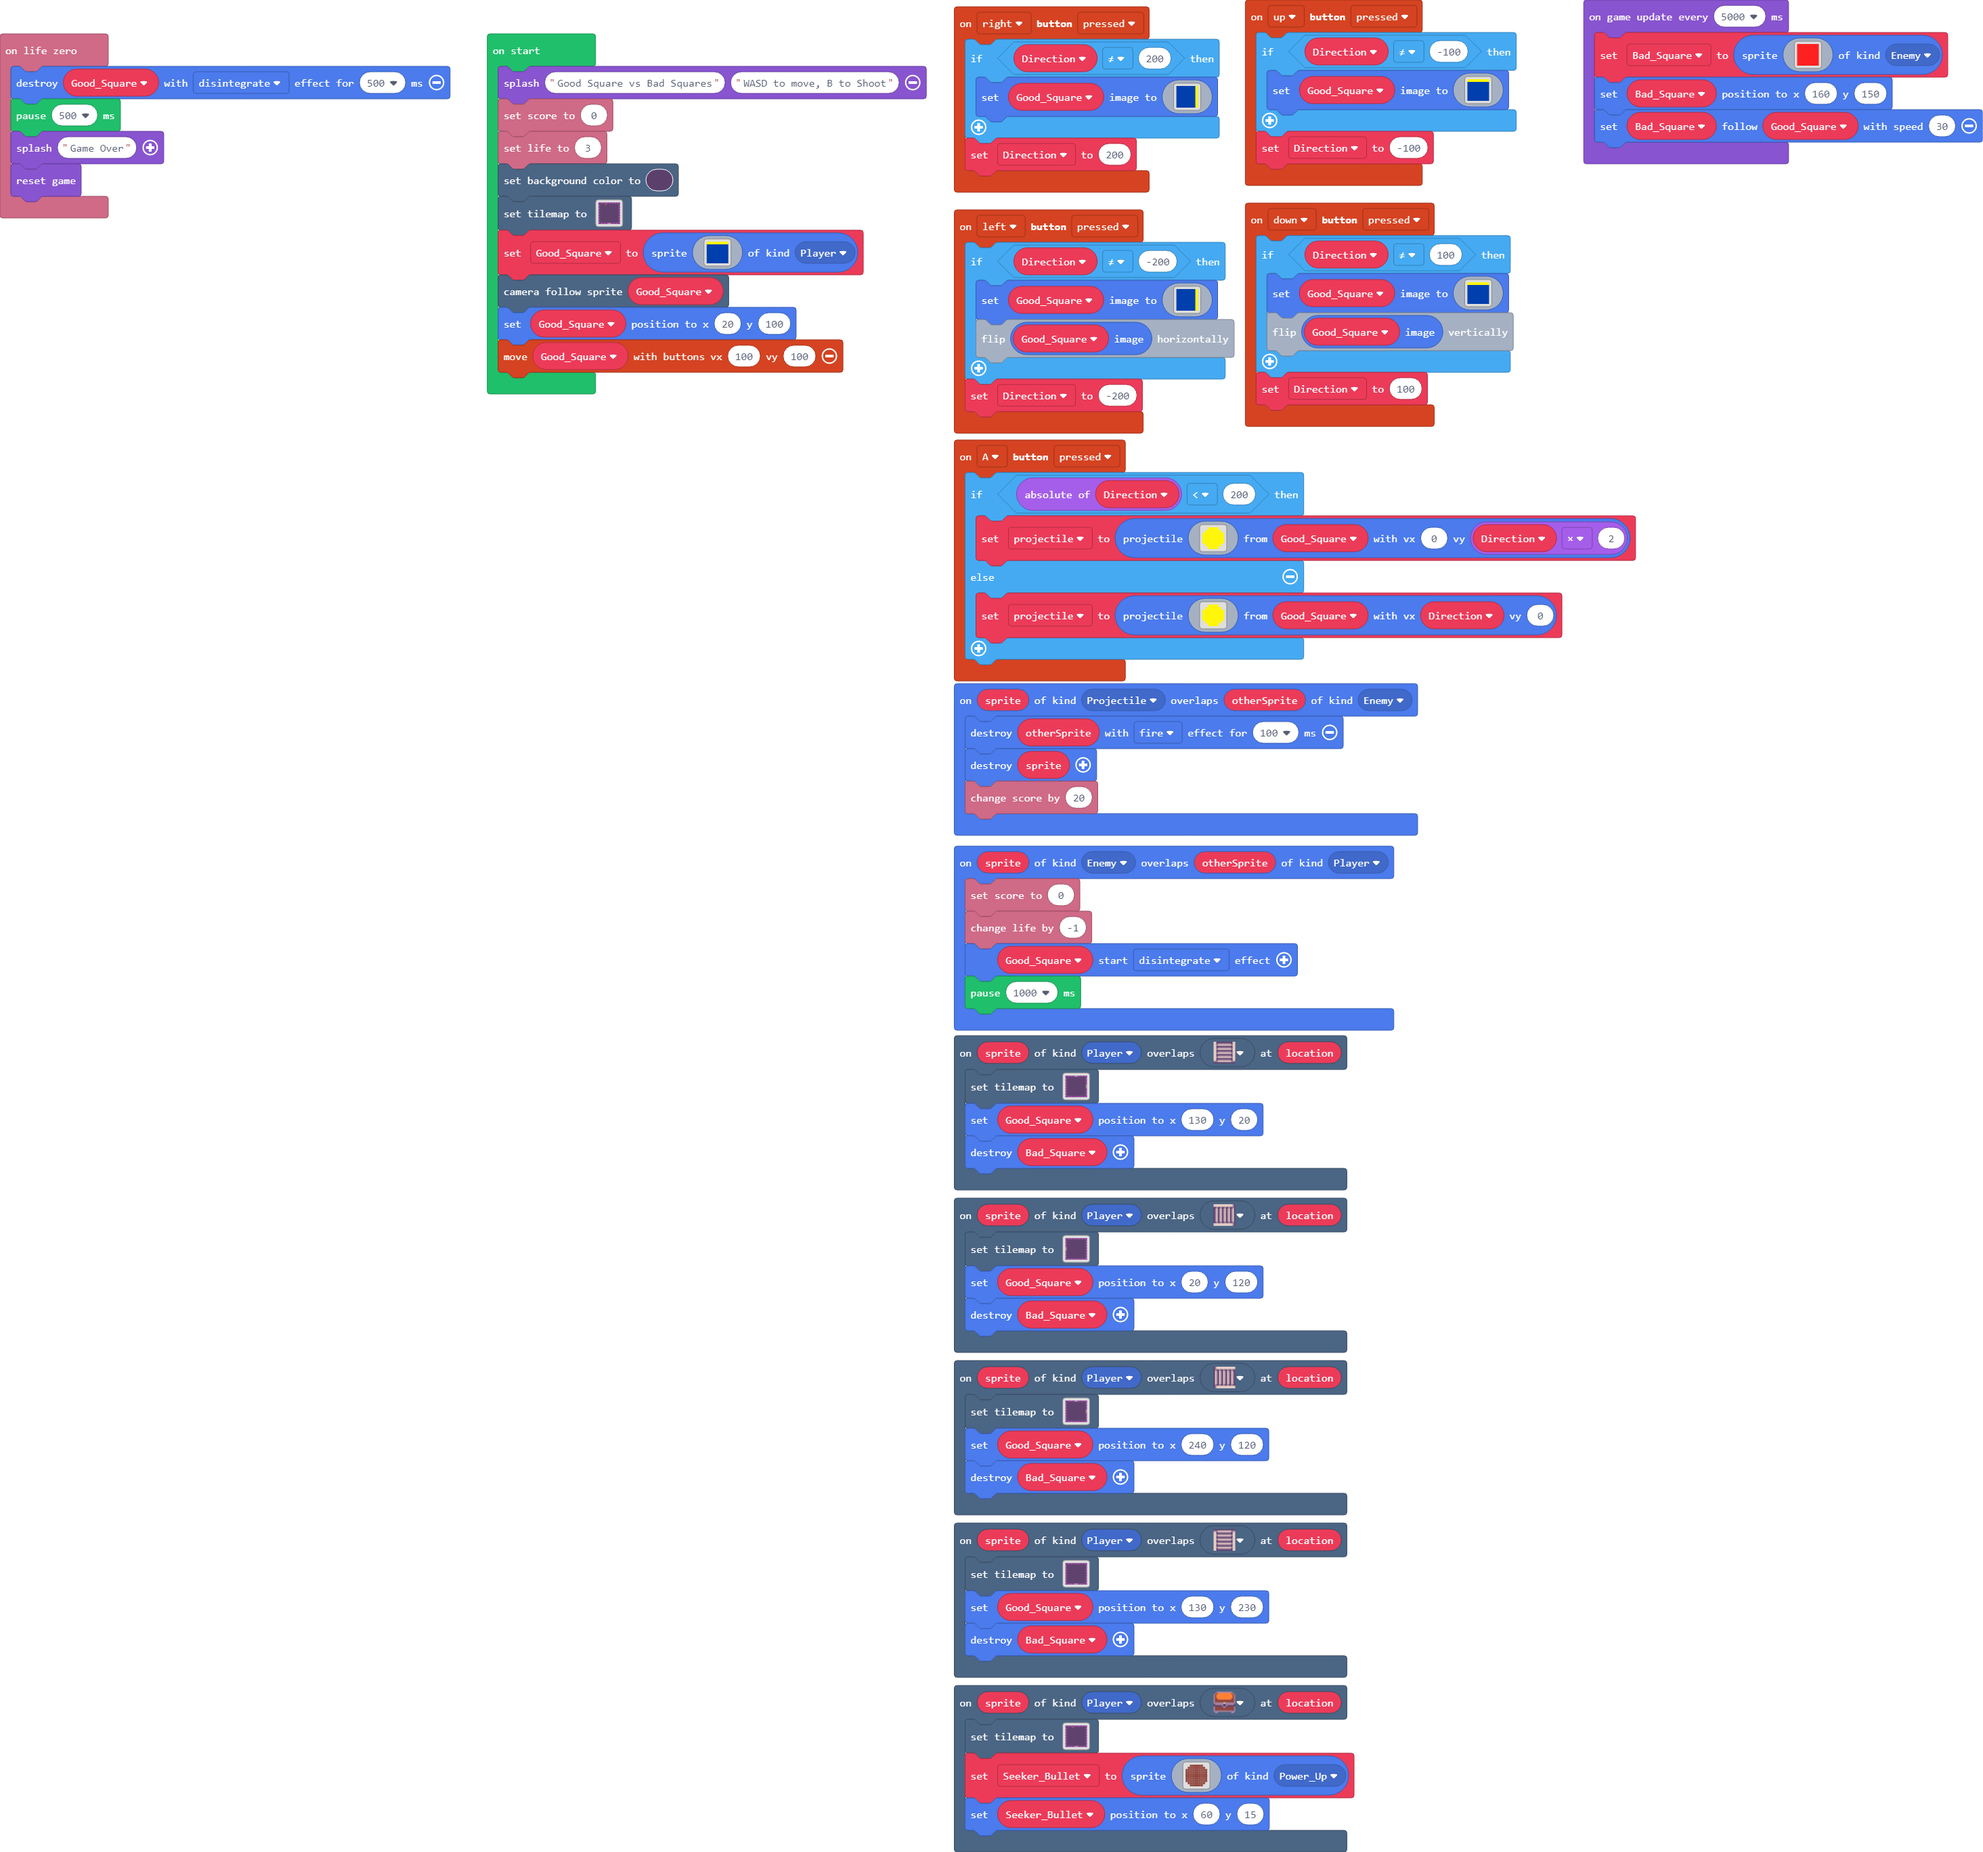
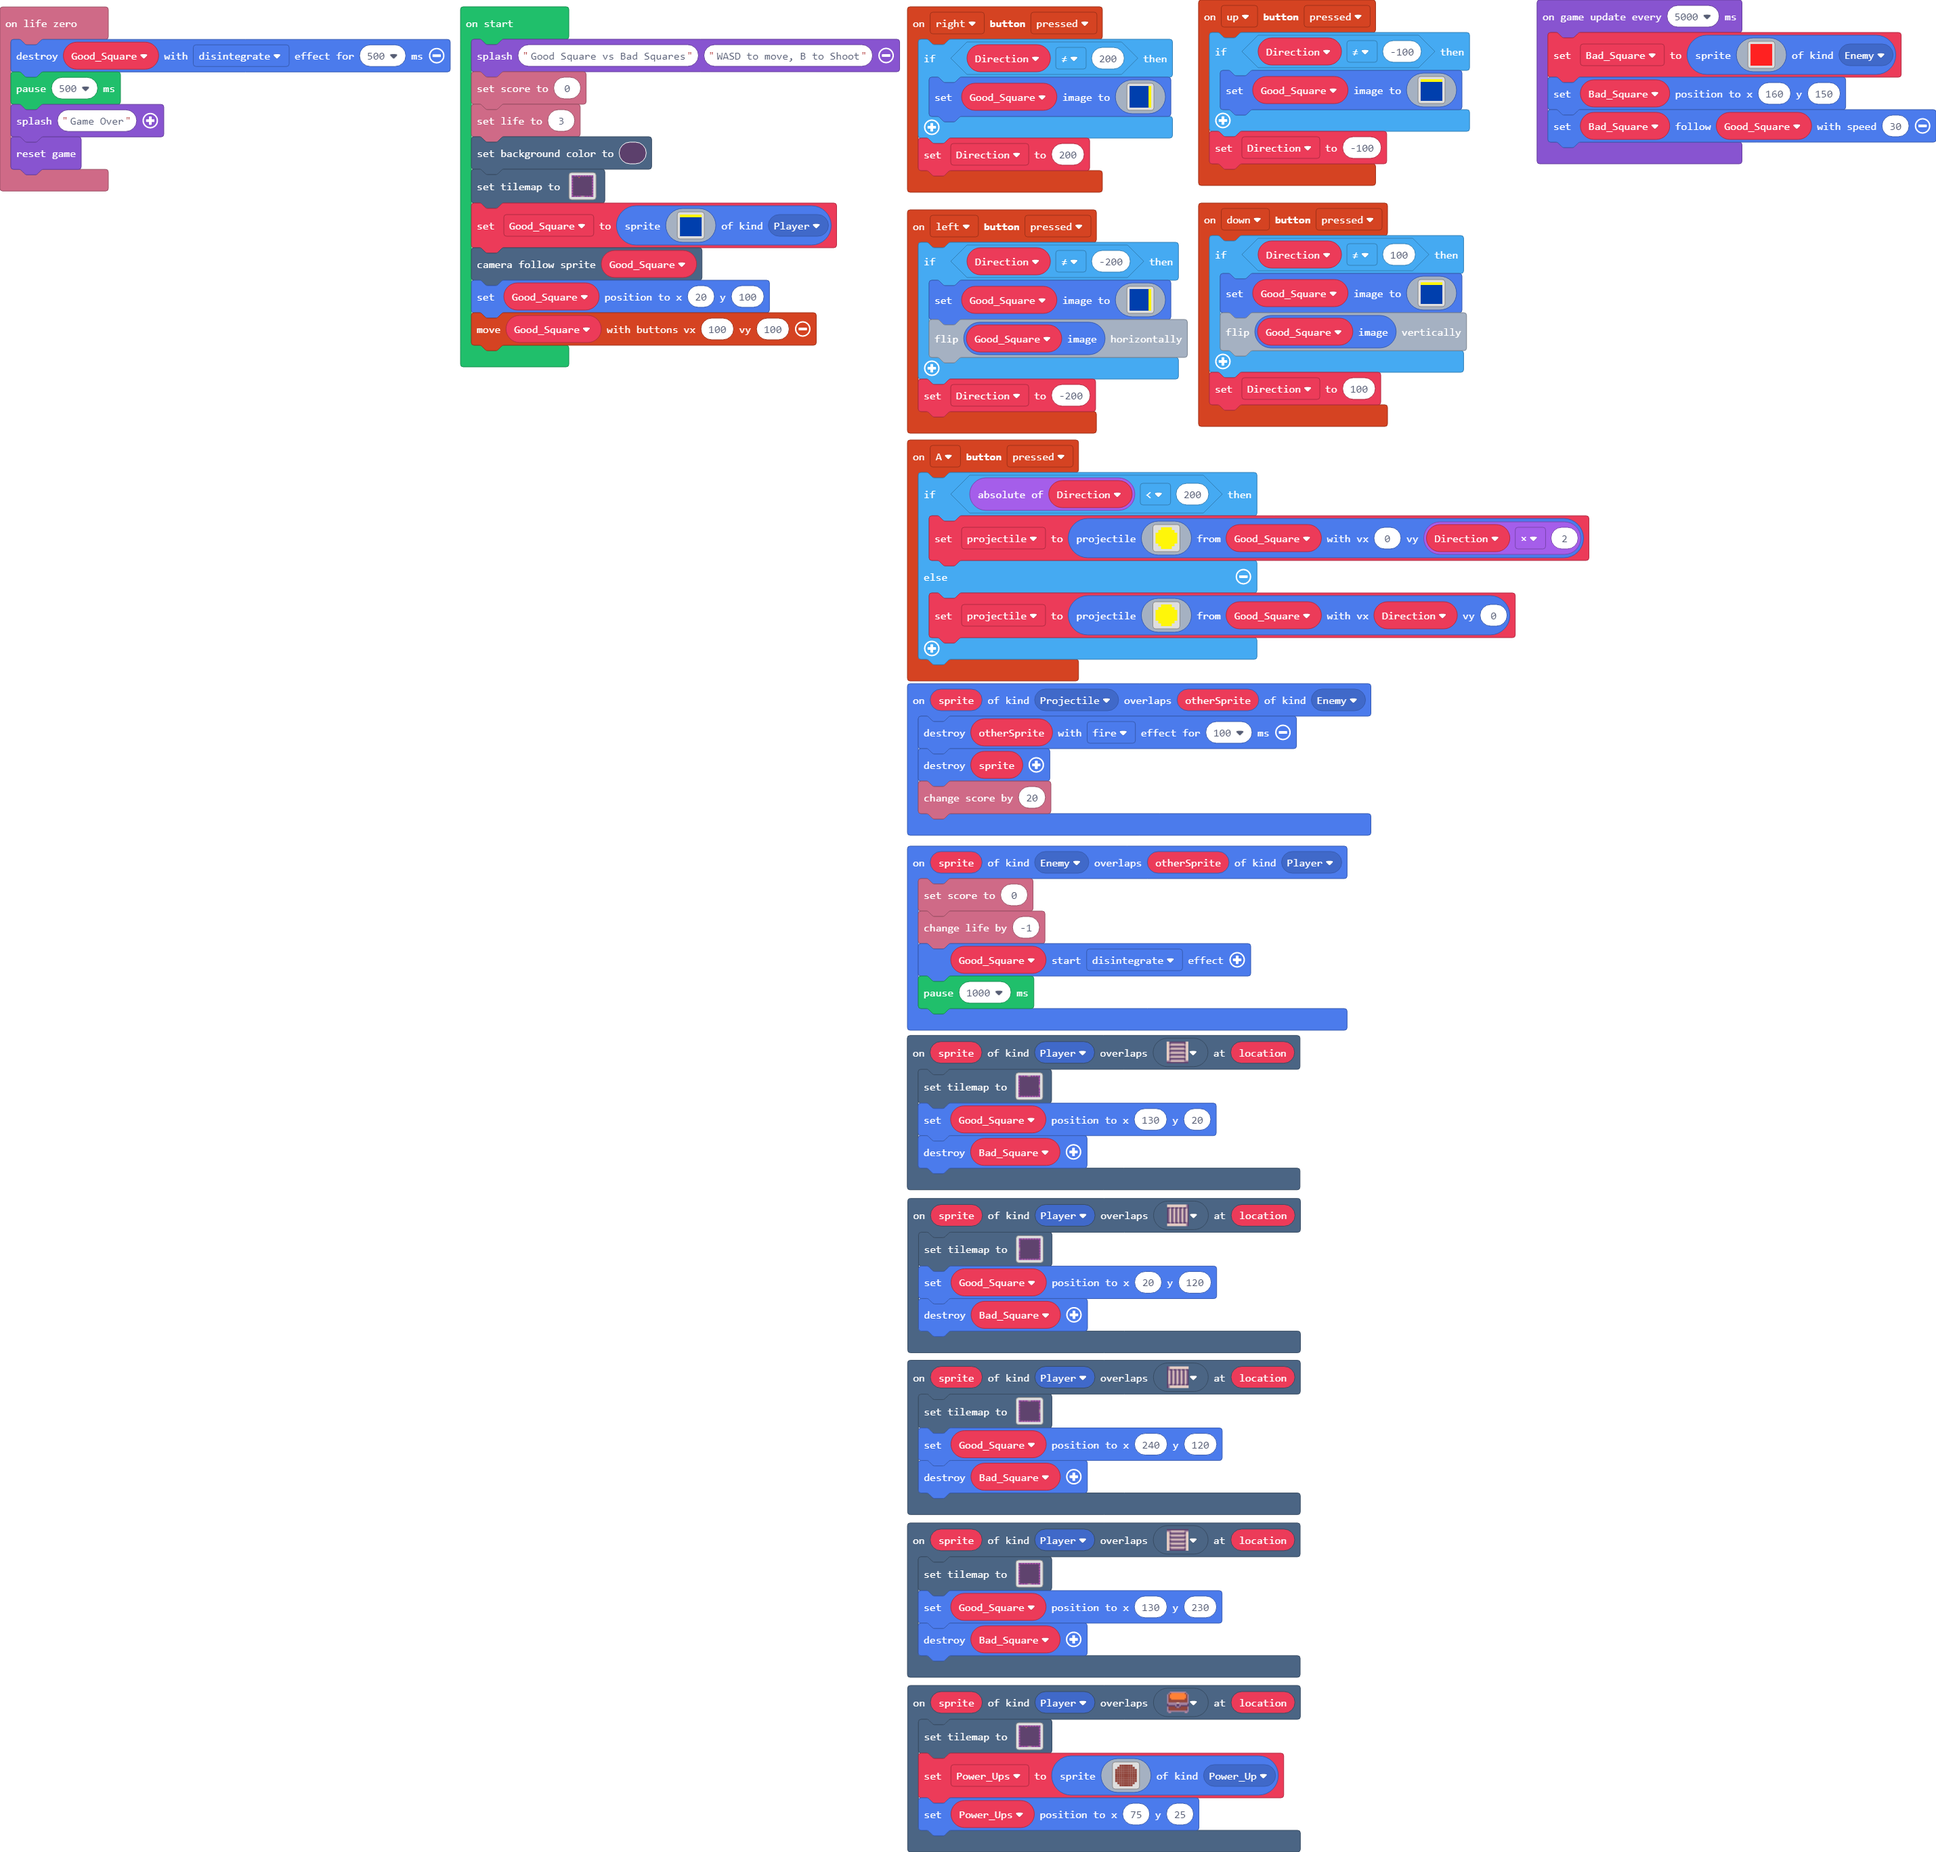
Update main.blocks, main.ts

Changed region(s): [[0.0, 0.0, 0.965, 1.0], [0.6849, 0.4349, 0.716, 0.466], [0.6226, 0.4971, 0.6537, 0.5281]]

diff --git a/main.ts b/main.ts
@@ -262,7 +262,7 @@ scene.onOverlapTile(SpriteKind.Player, sprites.dungeon.chestClosed, function (sp
             [myTiles.tile0,sprites.castle.tileGrass2,sprites.castle.tilePath1,sprites.castle.tilePath4,sprites.castle.tilePath7,sprites.castle.tilePath8,sprites.castle.tilePath9,sprites.castle.tilePath6,sprites.castle.tilePath3,sprites.castle.tilePath2,sprites.castle.tilePath5,sprites.castle.tileGrass1,sprites.castle.tileGrass3,sprites.builtin.forestTiles0,sprites.castle.rock0,sprites.dungeon.darkGroundNorthWest0,sprites.dungeon.collectibleBlueCrystal,sprites.dungeon.darkGroundNorthWest1,sprites.dungeon.darkGroundNorthEast1,sprites.dungeon.darkGroundWest,sprites.dungeon.darkGroundNorth,sprites.dungeon.darkGroundEast,sprites.dungeon.darkGroundSouth,sprites.dungeon.darkGroundSouthWest0,sprites.dungeon.darkGroundNorthEast0,sprites.dungeon.darkGroundSouthEast0,sprites.dungeon.floorLight0,sprites.dungeon.darkGroundSouthWest1,sprites.dungeon.darkGroundSouthEast1,sprites.dungeon.doorLockedWest,sprites.dungeon.greenOuterNorthWest,sprites.dungeon.greenOuterNorth0,sprites.dungeon.greenOuterNorth1,sprites.dungeon.greenOuterNorthEast,sprites.dungeon.greenOuterEast0,sprites.dungeon.greenOuterSouthWest,sprites.dungeon.greenOuterEast1,sprites.dungeon.greenOuterWest0,sprites.dungeon.greenOuterWest1,sprites.dungeon.greenOuterSouthEast,sprites.dungeon.greenOuterSouth0,sprites.dungeon.greenOuterSouth1,sprites.dungeon.greenInnerNorthWest,sprites.dungeon.greenInnerSouthWest,sprites.dungeon.greenInnerNorthEast,sprites.dungeon.greenInnerSouthEast,sprites.dungeon.greenOuterNorth2,sprites.dungeon.greenOuterSouth2,sprites.dungeon.greenOuterEast2,sprites.dungeon.greenOuterWest2,sprites.dungeon.greenSwitchDown,sprites.dungeon.floorLight2,sprites.dungeon.purpleOuterSouthWest,sprites.dungeon.purpleOuterSouth1,sprites.dungeon.purpleOuterSouth0,sprites.dungeon.purpleOuterNorthEast,sprites.dungeon.purpleOuterNorthWest,sprites.dungeon.purpleOuterSouthEast,sprites.dungeon.purpleOuterWest0,sprites.dungeon.purpleOuterWest1,sprites.dungeon.purpleOuterEast0,sprites.dungeon.purpleOuterNorth1,sprites.dungeon.purpleOuterEast1,sprites.dungeon.purpleOuterNorth0,sprites.dungeon.purpleInnerNorthWest,sprites.dungeon.purpleInnerSouthWest,sprites.dungeon.purpleInnerNorthEast,sprites.dungeon.purpleInnerSouthEast,sprites.dungeon.purpleOuterNorth2,sprites.dungeon.purpleOuterWest2,sprites.dungeon.purpleOuterSouth2,sprites.dungeon.purpleOuterEast2,sprites.dungeon.stairWest,sprites.dungeon.stairSouth,sprites.dungeon.stairEast,sprites.dungeon.stairNorth,sprites.dungeon.doorClosedWest,sprites.dungeon.chestClosed,sprites.dungeon.chestOpen],
             TileScale.Sixteen
         ))
-    Seeker_Bullet = sprites.create(img`
+    Power_Ups = sprites.create(img`
 . . e e e e e e . . 
 . e e e e e e e e . 
 e e e e e e e e e e 
@@ -274,7 +274,7 @@ e e e e e e e e e e
 . e e e e e e e e . 
 . . e e e e e e . . 
 `, SpriteKind.Power_Up)
-    Seeker_Bullet.setPosition(60, 15)
+    Power_Ups.setPosition(75, 25)
 })
 controller.up.onEvent(ControllerButtonEvent.Pressed, function () {
     if (Direction != -100) {
@@ -305,7 +305,7 @@ info.onLifeZero(function () {
     game.splash("Game Over")
     game.reset()
 })
-let Seeker_Bullet: Sprite = null
+let Power_Ups: Sprite = null
 let projectile: Sprite = null
 let Direction = 0
 let Bad_Square: Sprite = null
